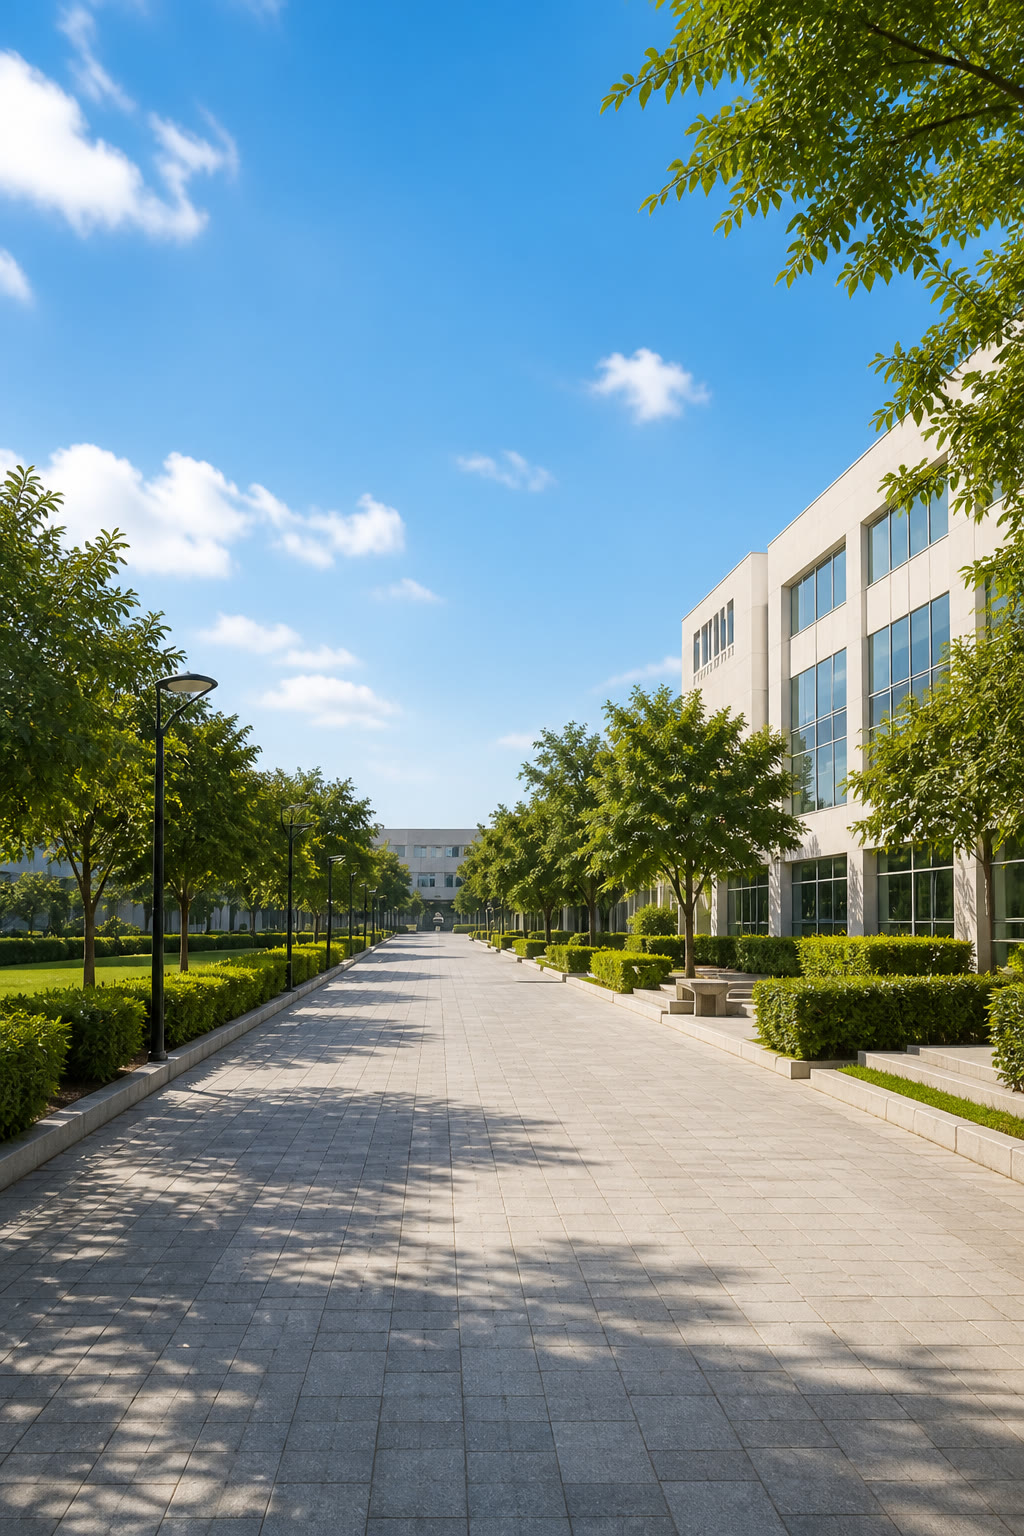
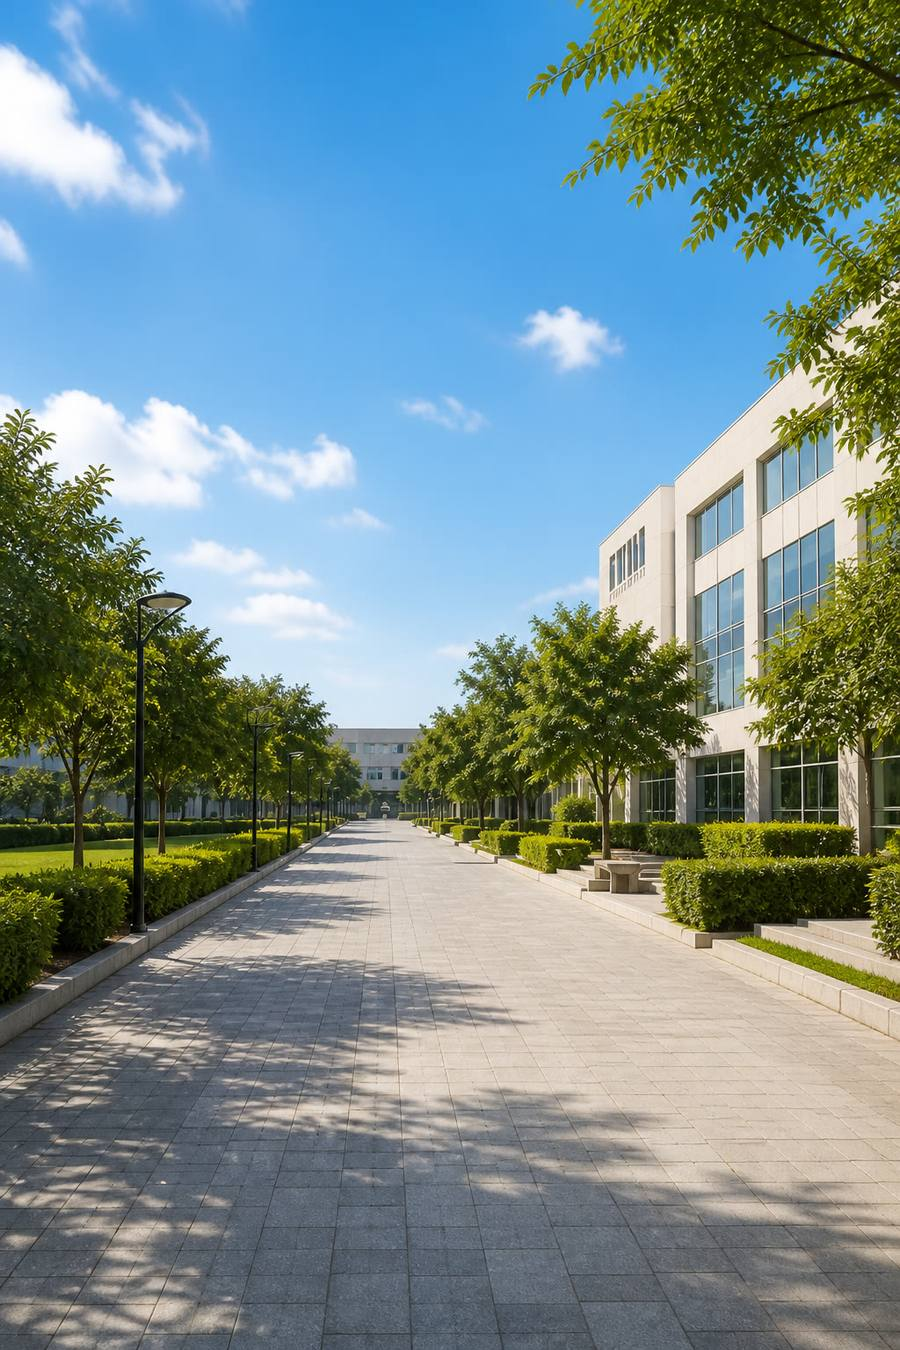
Speed up first load with lazy map chunks and lighter assets
Defer MapLibre until /map, show an instant splash screen, drop unused Leaflet CSS, and compress the hero/logo so the site stops hanging on slow networks.

diff --git a/ITM NAVIGATION/itm-campus-navigator/src/App.jsx b/ITM NAVIGATION/itm-campus-navigator/src/App.jsx
@@ -1,12 +1,23 @@
+import { lazy, Suspense } from 'react'
 import { BrowserRouter, Routes, Route, useLocation } from 'react-router-dom'
 import Navbar from './components/Navbar.jsx'
 import Footer from './components/Footer.jsx'
 import Home from './pages/Home.jsx'
-import MapPage from './pages/MapPage.jsx'
-import BuildingDetail from './pages/BuildingDetail.jsx'
-import Visitor from './pages/Visitor.jsx'
-import About from './pages/About.jsx'
 import { useTheme } from './hooks/useTheme.js'
+
+const MapPage = lazy(() => import('./pages/MapPage.jsx'))
+const BuildingDetail = lazy(() => import('./pages/BuildingDetail.jsx'))
+const Visitor = lazy(() => import('./pages/Visitor.jsx'))
+const About = lazy(() => import('./pages/About.jsx'))
+
+function RouteFallback() {
+  return (
+    <div className="loading-screen" role="status">
+      <div className="boot-dot" aria-hidden="true" style={{ width: 10, height: 10, borderRadius: '50%', background: 'var(--accent)' }} />
+      <p className="loading-text">Loading…</p>
+    </div>
+  )
+}
 
 function Shell({ theme, toggle }) {
   const location = useLocation()
@@ -23,13 +34,15 @@ function Shell({ theme, toggle }) {
   return (
     <div className={shellClass}>
       {!hideNavbar && <Navbar theme={theme} onToggleTheme={toggle} />}
-      <Routes>
-        <Route path="/" element={<Home />} />
-        <Route path="/map" element={<MapPage />} />
-        <Route path="/building/:id" element={<BuildingDetail />} />
-        <Route path="/visitor" element={<Visitor />} />
-        <Route path="/about" element={<About />} />
-      </Routes>
+      <Suspense fallback={<RouteFallback />}>
+        <Routes>
+          <Route path="/" element={<Home />} />
+          <Route path="/map" element={<MapPage />} />
+          <Route path="/building/:id" element={<BuildingDetail />} />
+          <Route path="/visitor" element={<Visitor />} />
+          <Route path="/about" element={<About />} />
+        </Routes>
+      </Suspense>
       {!hideFooter && <Footer />}
     </div>
   )

diff --git a/ITM NAVIGATION/itm-campus-navigator/index.html b/ITM NAVIGATION/itm-campus-navigator/index.html
@@ -4,13 +4,53 @@
     <meta charset="UTF-8" />
     <meta name="viewport" content="width=device-width, initial-scale=1.0, maximum-scale=1" />
     <title>ITM University Gwalior · Campus Navigator</title>
+    <link rel="preconnect" href="https://fonts.googleapis.com" />
+    <link rel="preconnect" href="https://fonts.gstatic.com" crossorigin />
     <link
       rel="stylesheet"
-      href="https://cdnjs.cloudflare.com/ajax/libs/leaflet/1.9.4/leaflet.min.css"
+      href="https://fonts.googleapis.com/css2?family=Space+Grotesk:wght@500;600;700&family=IBM+Plex+Mono:wght@500;600&display=swap"
     />
+    <style>
+      html, body, #root { margin: 0; min-height: 100%; background: #0B3760; }
+      .boot-splash {
+        min-height: 100vh;
+        display: flex;
+        flex-direction: column;
+        align-items: center;
+        justify-content: center;
+        gap: 14px;
+        font-family: 'Space Grotesk', system-ui, sans-serif;
+        color: #fff;
+      }
+      .boot-splash strong {
+        font-size: 22px;
+        letter-spacing: 0.04em;
+      }
+      .boot-splash span {
+        font-size: 13px;
+        opacity: 0.75;
+      }
+      .boot-dot {
+        width: 10px;
+        height: 10px;
+        border-radius: 50%;
+        background: #00C2A8;
+        animation: bootPulse 1s ease-in-out infinite;
+      }
+      @keyframes bootPulse {
+        0%, 100% { transform: scale(0.8); opacity: 0.5; }
+        50% { transform: scale(1.2); opacity: 1; }
+      }
+    </style>
   </head>
   <body>
-    <div id="root"></div>
+    <div id="root">
+      <div class="boot-splash" aria-live="polite">
+        <div class="boot-dot" aria-hidden="true"></div>
+        <strong>ITM NAVIGATOR</strong>
+        <span>Loading campus map…</span>
+      </div>
+    </div>
     <script type="module" src="/src/main.jsx"></script>
   </body>
 </html>

diff --git a/ITM NAVIGATION/itm-campus-navigator/src/pages/MapPage.jsx b/ITM NAVIGATION/itm-campus-navigator/src/pages/MapPage.jsx
@@ -1,6 +1,5 @@
-import { useEffect, useState, useCallback, useMemo } from 'react'
+import { useEffect, useState, useCallback, useMemo, lazy, Suspense } from 'react'
 import { Link } from 'react-router-dom'
-import CampusMap from '../components/CampusMap.jsx'
 import { BLOCKS } from '../data/campusData.js'
 import {
   buildTeacherPlaces,
@@ -8,6 +7,8 @@ import {
   filterPlaces,
   defaultLayerState,
 } from '../data/mapLayers.js'
+
+const CampusMap = lazy(() => import('../components/CampusMap.jsx'))
 
 const GPS_OPTS = {
   enableHighAccuracy: true,
@@ -262,19 +263,27 @@ export default function MapPage() {
         {locStatus === 'error' && <p className="status-note error map-explore-note">{errorMsg}</p>}
       </div>
 
-      <CampusMap
-        buildings={buildings}
-        teachers={teachers}
-        layers={layers}
-        userPos={userPos}
-        dest={dest}
-        selected={selected}
-        onSelect={setSelected}
-        onNavigate={handleNavigate}
-        focusTarget={focusTarget}
-        onCalibratePin={dest ? calibratePin : null}
-        searchingTeachers={searchingTeachers}
-      />
+      <Suspense
+        fallback={
+          <div className="loading-screen" style={{ position: 'relative', minHeight: '60vh' }}>
+            <p className="loading-text">Loading map…</p>
+          </div>
+        }
+      >
+        <CampusMap
+          buildings={buildings}
+          teachers={teachers}
+          layers={layers}
+          userPos={userPos}
+          dest={dest}
+          selected={selected}
+          onSelect={setSelected}
+          onNavigate={handleNavigate}
+          focusTarget={focusTarget}
+          onCalibratePin={dest ? calibratePin : null}
+          searchingTeachers={searchingTeachers}
+        />
+      </Suspense>
     </div>
   )
 }

diff --git a/ITM NAVIGATION/itm-campus-navigator/src/index.css b/ITM NAVIGATION/itm-campus-navigator/src/index.css
@@ -1,5 +1,3 @@
-@import url('https://fonts.googleapis.com/css2?family=Space+Grotesk:wght@500;600;700&family=IBM+Plex+Mono:wght@500;600&family=Inter:wght@400;500;600;700&display=swap');
-
 :root{
   --primary:#0B3760;
   --primary-deep:#082a4a;
@@ -31,7 +29,7 @@ html, body, #root{ min-height:100%; margin:0; }
 body{
   background:var(--bg);
   color:var(--ink);
-  font-family:'Inter', -apple-system, BlinkMacSystemFont, 'Segoe UI', sans-serif;
+  font-family:'Space Grotesk', system-ui, -apple-system, BlinkMacSystemFont, 'Segoe UI', sans-serif;
   -webkit-font-smoothing:antialiased;
   transition: background .25s ease, color .25s ease;
 }
@@ -376,7 +374,7 @@ p.page-sub{ font-size:14.5px; color:var(--slate); line-height:1.6; margin:0 0 26
 }
 .search-input-row input{
   flex:1; border:none; background:transparent; font-size:15px; padding:10px 4px;
-  color:var(--ink); font-family:'Inter', sans-serif;
+  color:var(--ink); font-family:'Space Grotesk', system-ui, sans-serif;
 }
 .search-input-row input:focus{ outline:none; }
 .search-go{
@@ -449,7 +447,7 @@ label.field-label{
 .field{ margin-bottom:18px; }
 input.text-input, select.select-input, textarea.text-input{
   width:100%; background:var(--panel-solid); border:1px solid var(--line); color:var(--ink);
-  font-family:'Inter', sans-serif; font-size:15px; padding:13px 14px; border-radius:10px;
+  font-family:'Space Grotesk', system-ui, sans-serif; font-size:15px; padding:13px 14px; border-radius:10px;
 }
 input.text-input:focus, select.select-input:focus, textarea.text-input:focus{ outline:none; border-color:var(--accent); }
 

diff --git a/ITM NAVIGATION/itm-campus-navigator/src/pages/Home.jsx b/ITM NAVIGATION/itm-campus-navigator/src/pages/Home.jsx
@@ -9,6 +9,8 @@ export default function Home() {
           className="walk-landing-photo"
           src="/campus-walk.jpg"
           alt=""
+          decoding="async"
+          fetchPriority="high"
           onError={(e) => {
             e.currentTarget.onerror = null
             e.currentTarget.src = '/kirloskar-block.jpg'
